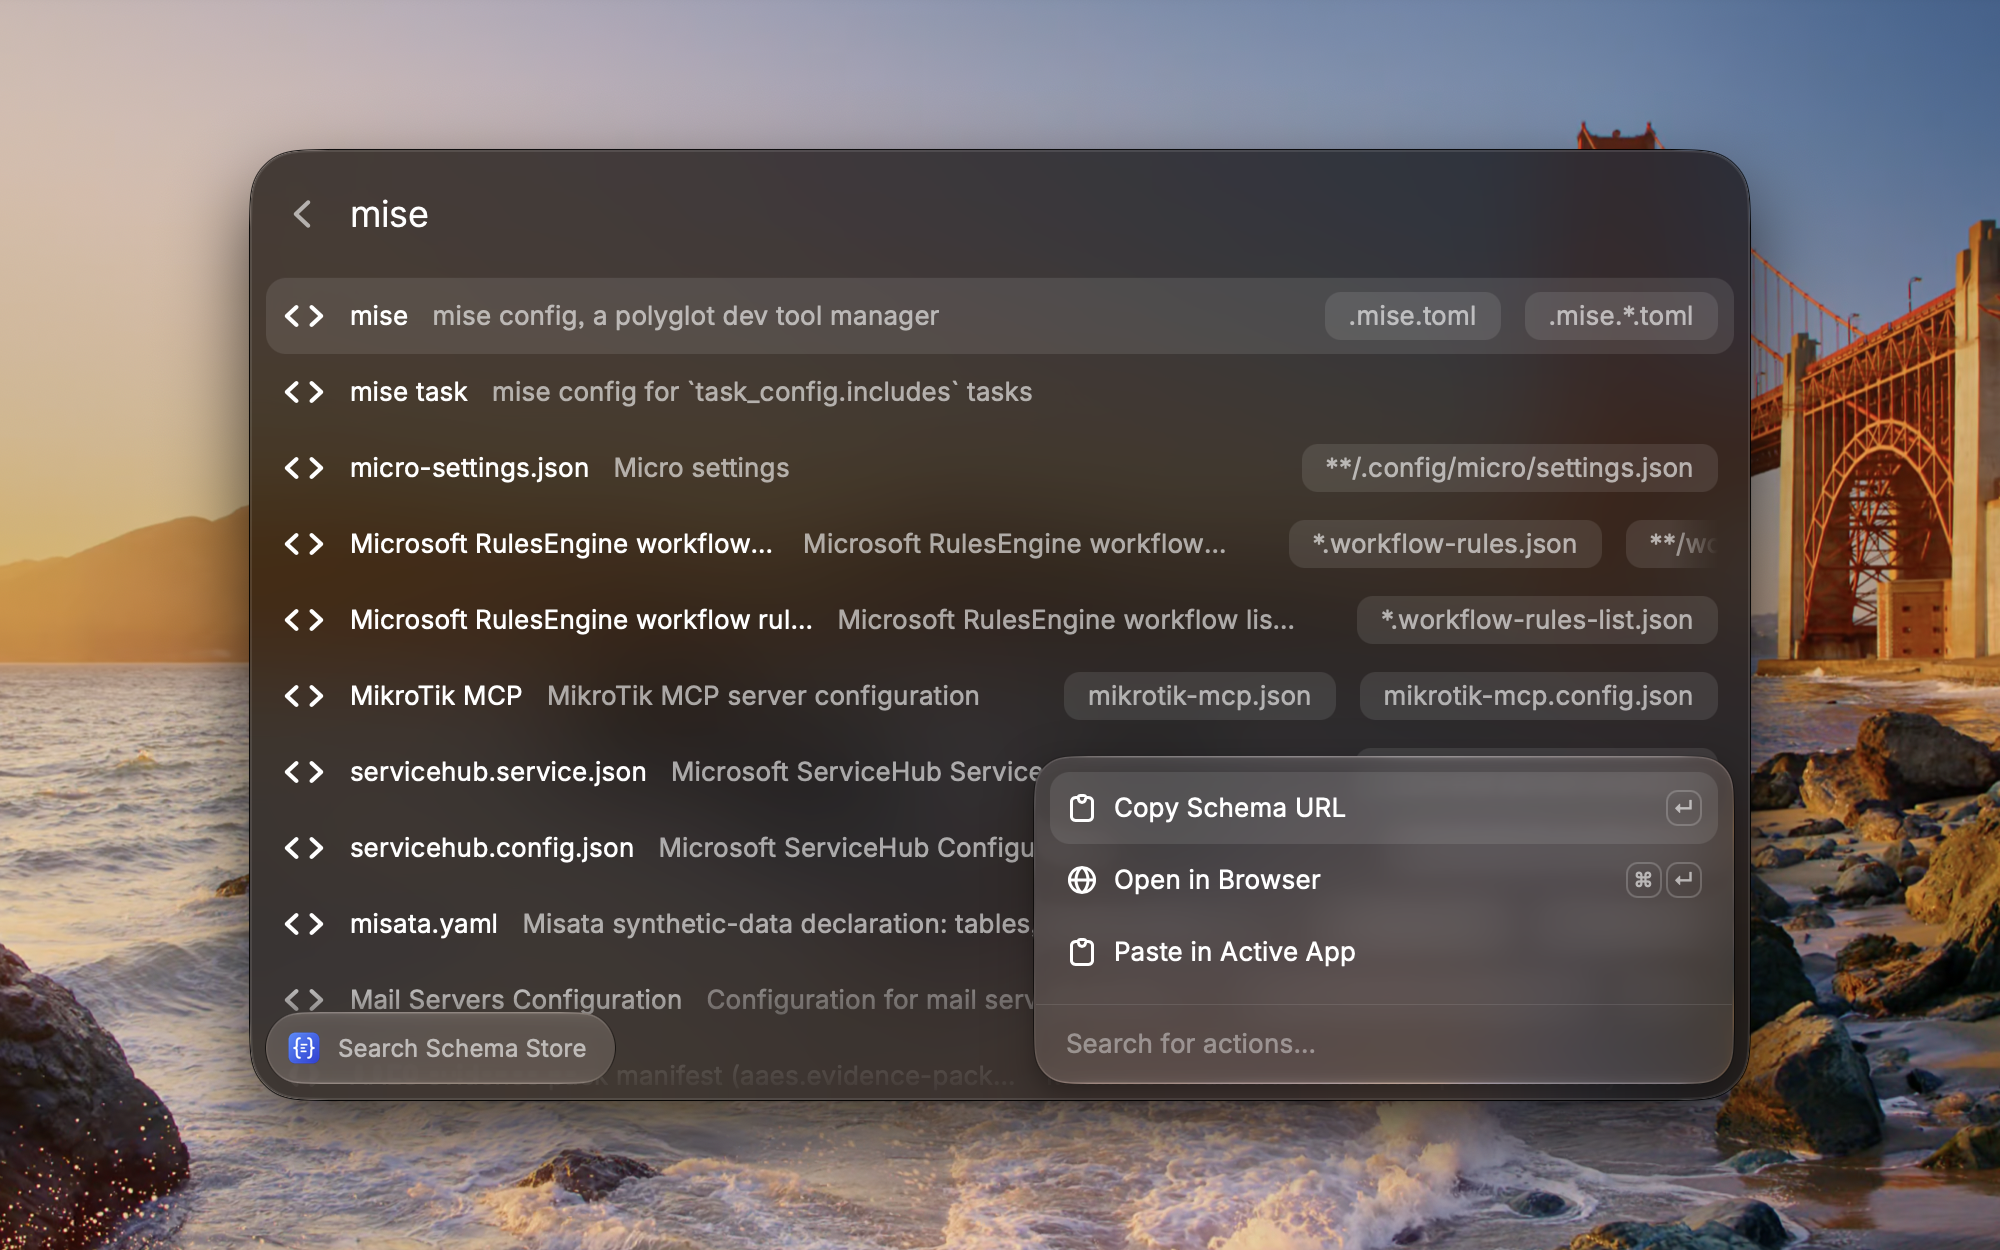
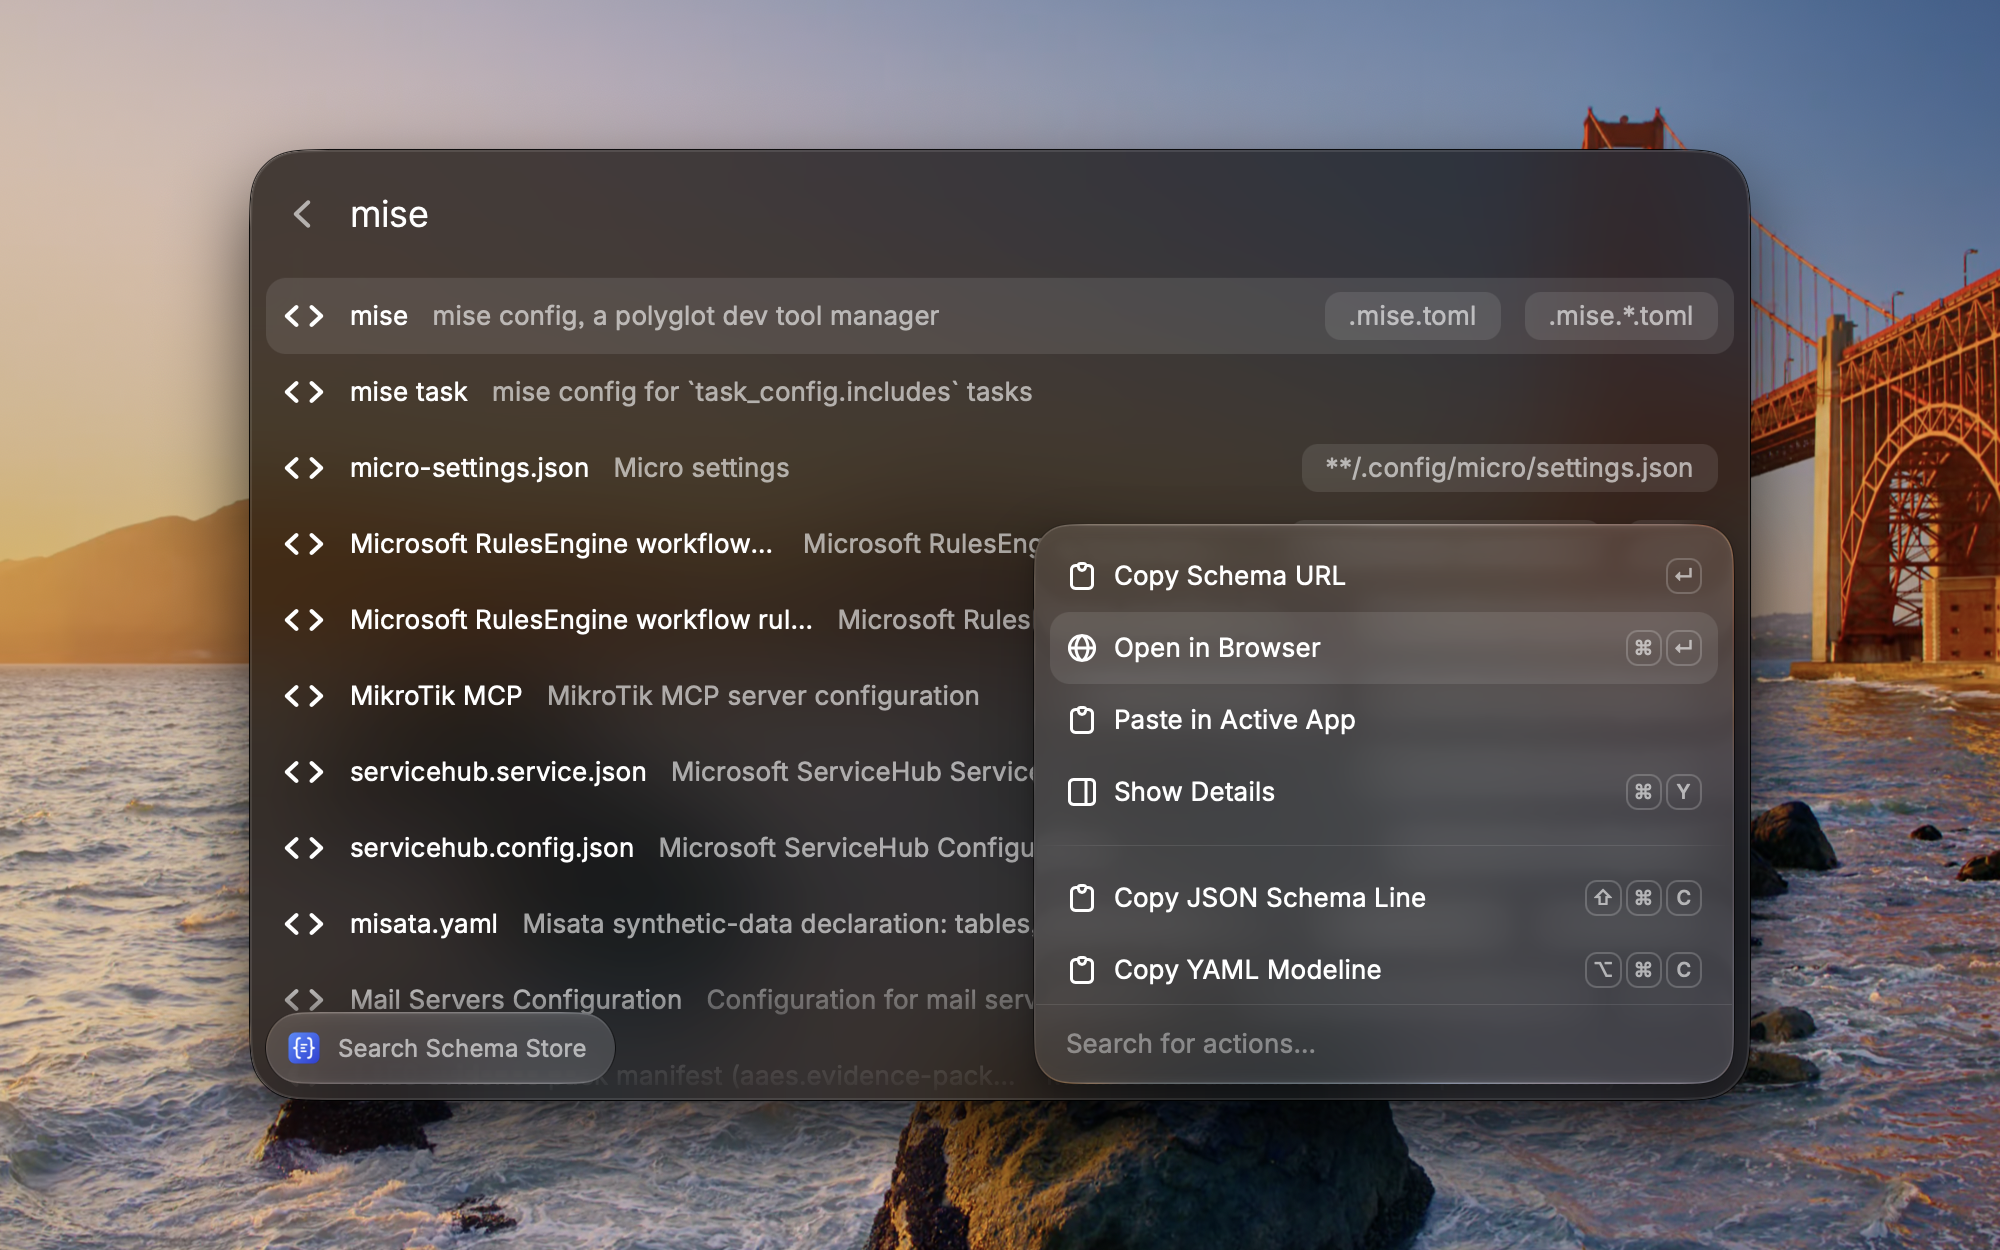
feat: add schema copy snippets and a details panel (#60)

diff --git a/src/search-schema-store.tsx b/src/search-schema-store.tsx
@@ -1,5 +1,6 @@
-import { Action, ActionPanel, Icon, List } from "@raycast/api";
+import { Action, ActionPanel, Icon, Keyboard, List } from "@raycast/api";
 import { useFetch } from "@raycast/utils";
+import { useState } from "react";
 
 type CatalogEntry = {
   name: string;
@@ -12,13 +13,27 @@ type Catalog = { schemas: CatalogEntry[] };
 
 const CATALOG_URL = "https://www.schemastore.org/api/json/catalog.json";
 
+const COPY_YAML_MODELINE_SHORTCUT: Keyboard.Shortcut = {
+  macOS: { modifiers: ["cmd", "opt"], key: "c" },
+  Windows: { modifiers: ["ctrl", "alt"], key: "c" },
+};
+
+function schemaDetailMarkdown(schema: CatalogEntry): string {
+  return [`# ${schema.name}`, schema.description ?? "_No description._"].join("\n\n");
+}
+
 export default function Command() {
+  const [isShowingDetail, setIsShowingDetail] = useState(false);
   const { data, isLoading, error } = useFetch<Catalog>(CATALOG_URL, {
     keepPreviousData: true,
   });
 
   return (
-    <List isLoading={isLoading} searchBarPlaceholder="Filter schemas by name, description, or fileMatch…">
+    <List
+      isLoading={isLoading}
+      isShowingDetail={isShowingDetail}
+      searchBarPlaceholder="Filter schemas by name, description, or fileMatch…"
+    >
       {!isLoading && (
         <List.EmptyView
           icon={error ? Icon.ExclamationMark : Icon.MagnifyingGlass}
@@ -33,14 +48,53 @@ export default function Command() {
           key={`${schema.name}::${schema.url}`}
           icon={Icon.Code}
           title={schema.name}
-          subtitle={schema.description}
+          subtitle={isShowingDetail ? undefined : schema.description}
           keywords={[...(schema.fileMatch ?? []), ...(schema.description ? [schema.description] : [])]}
-          accessories={schema.fileMatch?.slice(0, 2).map((pattern) => ({ tag: pattern }))}
+          accessories={isShowingDetail ? undefined : schema.fileMatch?.slice(0, 2).map((pattern) => ({ tag: pattern }))}
+          detail={
+            <List.Item.Detail
+              markdown={schemaDetailMarkdown(schema)}
+              metadata={
+                <List.Item.Detail.Metadata>
+                  <List.Item.Detail.Metadata.Link title="Schema URL" text={schema.url} target={schema.url} />
+                  {schema.fileMatch?.length ? (
+                    <List.Item.Detail.Metadata.TagList title="File Patterns">
+                      {schema.fileMatch.map((pattern) => (
+                        <List.Item.Detail.Metadata.TagList.Item key={pattern} text={pattern} />
+                      ))}
+                    </List.Item.Detail.Metadata.TagList>
+                  ) : (
+                    <List.Item.Detail.Metadata.Label title="File Patterns" text="None" />
+                  )}
+                </List.Item.Detail.Metadata>
+              }
+            />
+          }
           actions={
             <ActionPanel>
-              <Action.CopyToClipboard title="Copy Schema URL" content={schema.url} />
-              <Action.OpenInBrowser url={schema.url} />
-              <Action.Paste content={schema.url} />
+              <ActionPanel.Section>
+                <Action.CopyToClipboard title="Copy Schema URL" content={schema.url} />
+                <Action.OpenInBrowser url={schema.url} />
+                <Action.Paste content={schema.url} />
+                <Action
+                  title={isShowingDetail ? "Hide Details" : "Show Details"}
+                  icon={Icon.Sidebar}
+                  shortcut={Keyboard.Shortcut.Common.ToggleQuickLook}
+                  onAction={() => setIsShowingDetail((showing) => !showing)}
+                />
+              </ActionPanel.Section>
+              <ActionPanel.Section>
+                <Action.CopyToClipboard
+                  title="Copy JSON Schema Line"
+                  content={`"$schema": ${JSON.stringify(schema.url)}`}
+                  shortcut={Keyboard.Shortcut.Common.Copy}
+                />
+                <Action.CopyToClipboard
+                  title="Copy YAML Modeline"
+                  content={`# yaml-language-server: $schema=${schema.url}`}
+                  shortcut={COPY_YAML_MODELINE_SHORTCUT}
+                />
+              </ActionPanel.Section>
             </ActionPanel>
           }
         />

diff --git a/README.md b/README.md
@@ -6,10 +6,13 @@ Search the [SchemaStore](https://www.schemastore.org) catalog for JSON schemas, 
 
 Open **Search Schema Store** and start typing. The list filters by schema name, description, and `fileMatch` patterns, so searching for `tsconfig.json` or `.eslintrc` finds the matching schema.
 
-Each result offers three actions:
+Each result offers these actions:
 
 - **Copy Schema URL** (default): copy the schema's URL to the clipboard
 - **Open in Browser**: open the schema in your browser
 - **Paste in Active App**: paste the schema URL into the frontmost app
+- **Show Details** / **Hide Details**: show the full description and every file pattern next to the list
+- **Copy JSON Schema Line**: copy `"$schema": "<url>"`, ready to paste into a JSON file
+- **Copy YAML Modeline**: copy `# yaml-language-server: $schema=<url>`, ready to paste at the top of a YAML file
 
 The catalog is fetched from <https://www.schemastore.org/api/json/catalog.json> and cached between launches.

diff --git a/CHANGELOG.md b/CHANGELOG.md
@@ -1,5 +1,11 @@
 # schemastore Changelog
 
+## [Copy Snippets and Details] - {PR_MERGE_DATE}
+
+- Add **Copy JSON Schema Line** to copy a ready-to-paste `"$schema": "<url>"` line for JSON files
+- Add **Copy YAML Modeline** to copy a `# yaml-language-server: $schema=<url>` comment for YAML files
+- Add **Show Details** to see the full description and every file pattern of a schema
+
 ## [Initial Version] - 2026-11-11
 
 - Search the SchemaStore catalog by name, description, or file pattern
